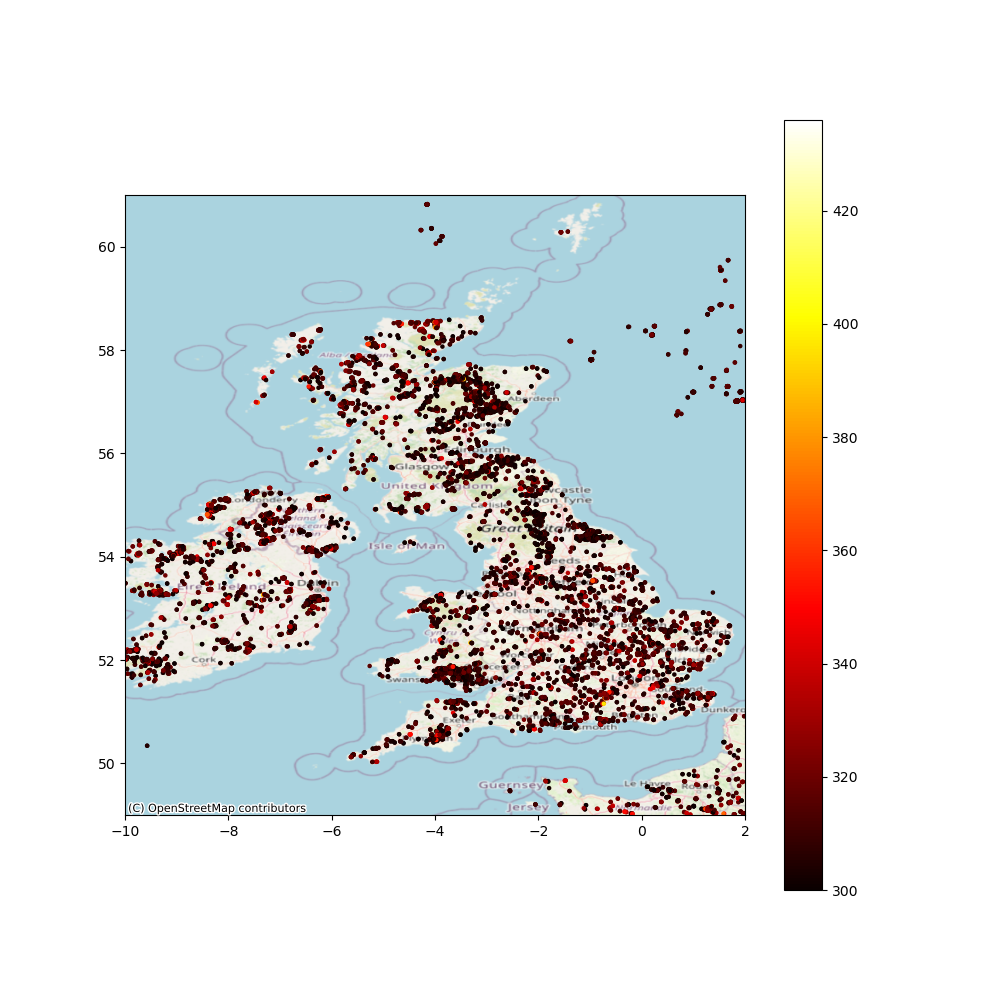
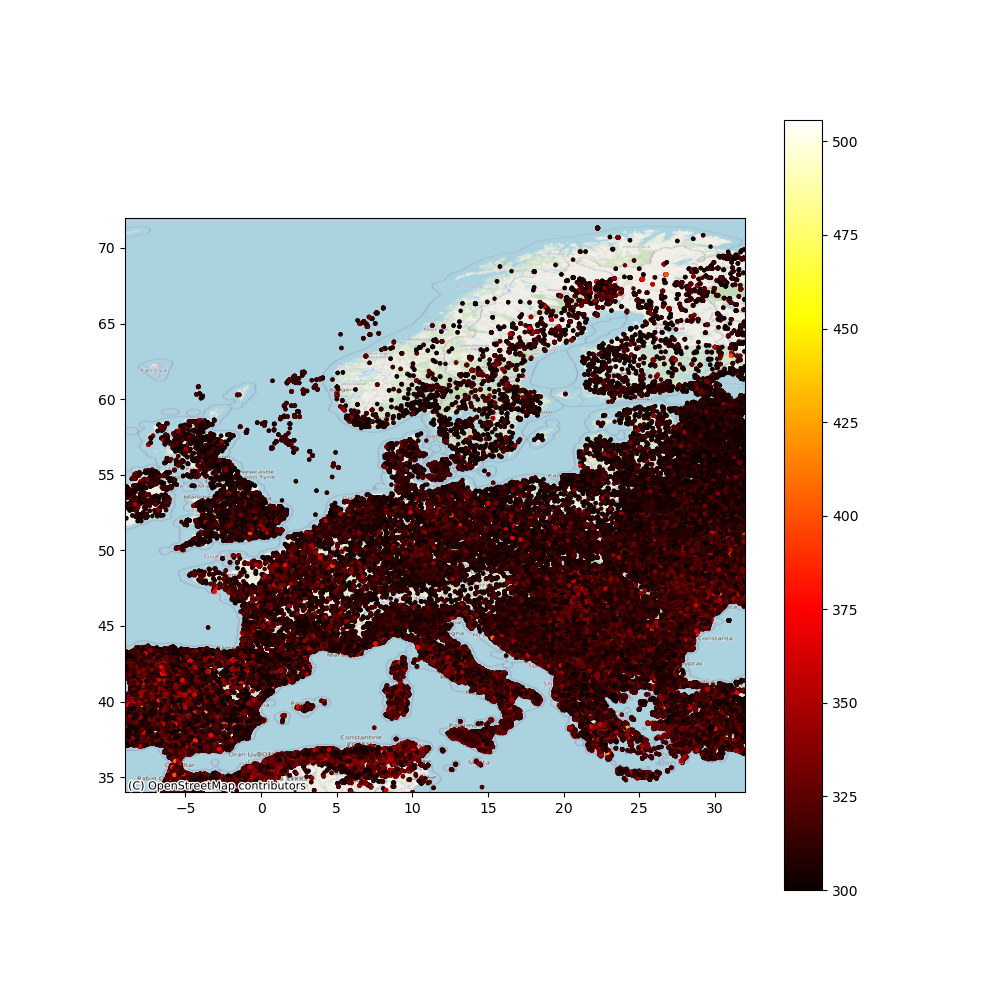
fwi fire intensity merge for eu

diff --git a/doc/my_scripts/merge_fwi_fire_intensity.py b/doc/my_scripts/merge_fwi_fire_intensity.py
@@ -214,9 +214,11 @@ class FireWeatherMerger:
 
 
 # Example usage:
-geo_bound_uk = (-10, 49, 2, 61)
+geo_bound_uk = (-9, 34, 32, 72)
 fwi_folder = '../../climada_petals/data/wildfire/copernicus_fwi/'
 fire_intensity_folder = '../../climada_petals/data/wildfire/nasa_fire_intensity/'
+# fwi_folder = '../../climada_petals/data/wildfire/2001_fwi_fire_intensity_expriment/'
+# fire_intensity_folder = '../../climada_petals/data/wildfire/2001_fwi_fire_intensity_expriment/fire_intensity_csv/'
 save_path = '../../climada_petals/data/wildfire/output/'
 
 merger = FireWeatherMerger(geo_bound_uk, fwi_folder, fire_intensity_folder, plot_on_map=True, save_path=save_path)
@@ -225,4 +227,4 @@ merged_gdf = merger.run()
 # convert date to string because GeoPackage driver does not support the datetime.date type directly
 merged_gdf['date'] = merged_gdf['date'].astype(str)
 merged_gdf.drop(columns=['index_right', 'scan', 'track', 'acq_time', 'version', 'type'], inplace=True)
-merged_gdf.to_file(os.path.join(save_path, 'merged_gdf2'), driver='GPKG')
+merged_gdf.to_file(os.path.join(save_path, 'merged_eu_2001_gdf'), driver='GPKG')
